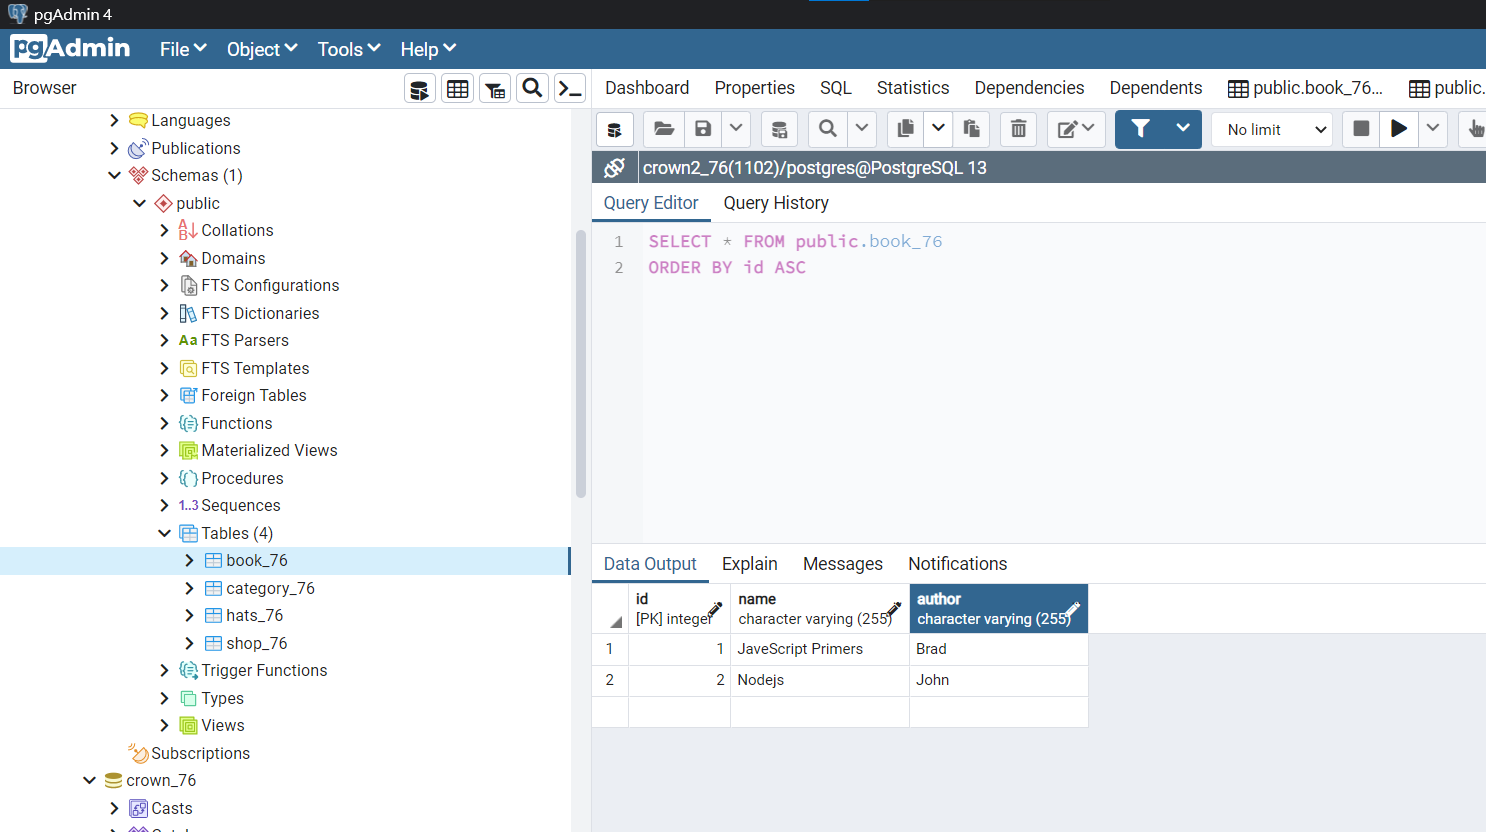
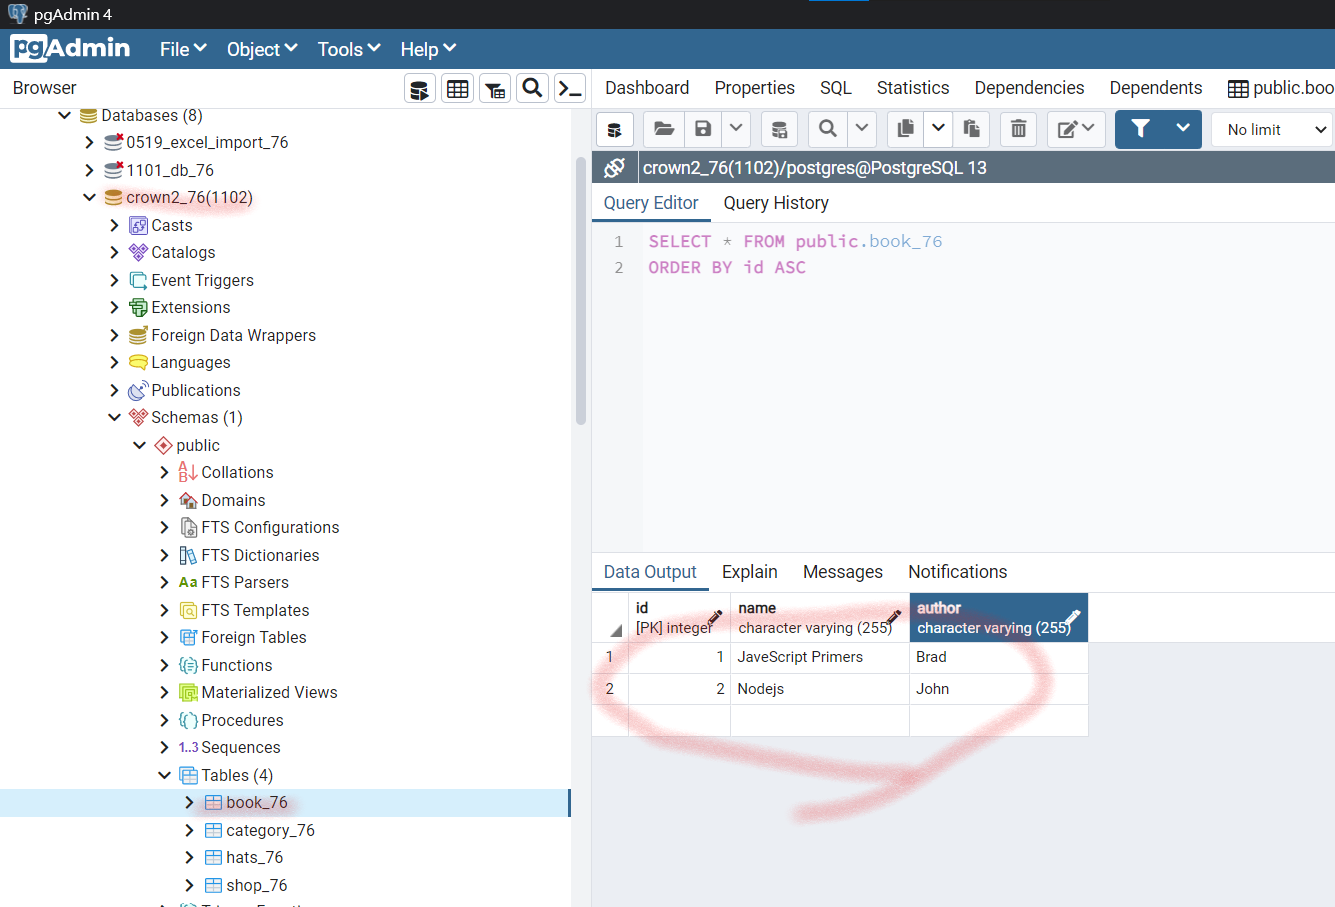
### w16-p2: get all data from table book_xx

Changed region(s): [[0.0, 0.0, 1.0, 1.0], [0.3685, 0.2812, 0.3993, 0.5938]]

diff --git a/app.js b/app.js
@@ -9,7 +9,7 @@ var usersRouter = require("./routes/users");
 var crown76Router = require("./routes/crown76");
 var crown2_76Router = require("./routes/crown2_76");
 var hats_76Router = require("./routes/hats_76");
-
+var book_76_Router = require("./routes/book_76");
 var app = express();
 
 // view engine setup
@@ -26,6 +26,7 @@ app.use("/", indexRouter);
 app.use("/users", usersRouter);
 app.use("/crown_76", crown76Router);
 app.use("/crown2_76", crown2_76Router);
+app.use("/book_76", book_76_Router);
 // app.use("/crown2_76/shop_76/hats", hats_76Router);
 
 // catch 404 and forward to error handler

diff --git a/routes/book_76.js b/routes/book_76.js
@@ -1,0 +1,20 @@
+var express = require("express");
+var router = express.Router();
+
+const db = require("../utils/database");
+/* GET home page. */
+router.get("/", async (req, res) => {
+    try {
+        const results = await db.query("SELECT * FROM book_76");
+        console.log("results", JSON.stringify(results.rows));
+        res.render("book_76/index", {
+            data: results.rows,
+            id: "207410076",
+            name: "Doris Hsieh",
+        });
+    } catch (err) {
+        console.log("err", err);
+    }
+});
+
+module.exports = router;

diff --git a/md/w16/w16.md b/md/w16/w16.md
@@ -1,3 +1,7 @@
 ### w16-p1: create book_xx in postgreSQL server, enter two data
 
 ![](./p1.png)
+
+### w16-p2: get all data from table book_xx
+
+![](./p2.png)
